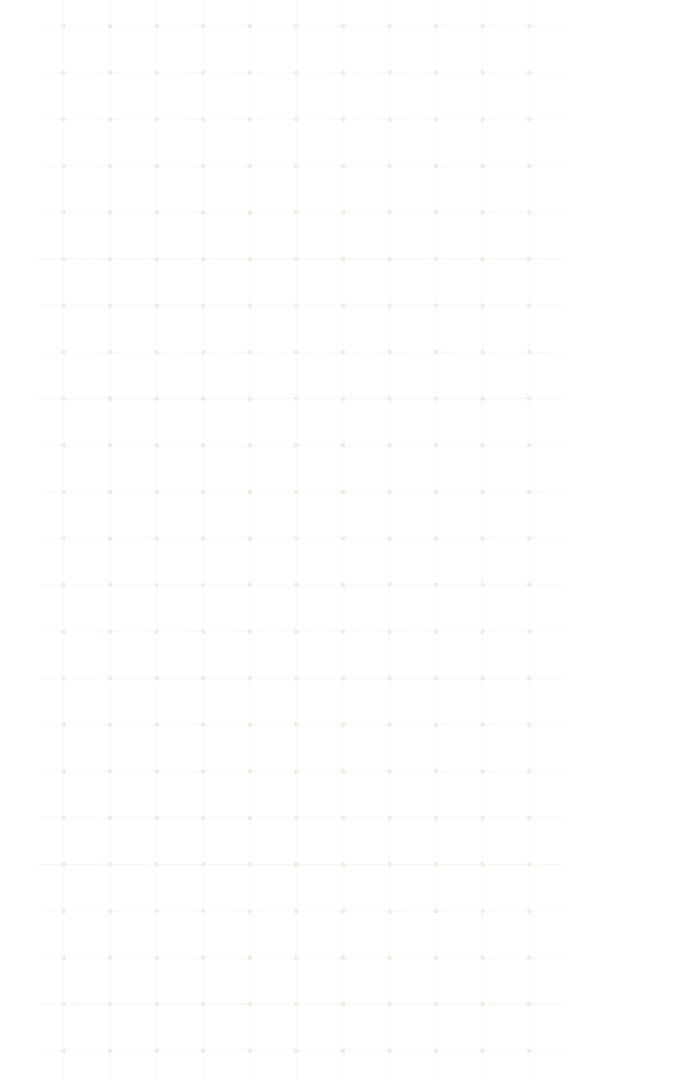
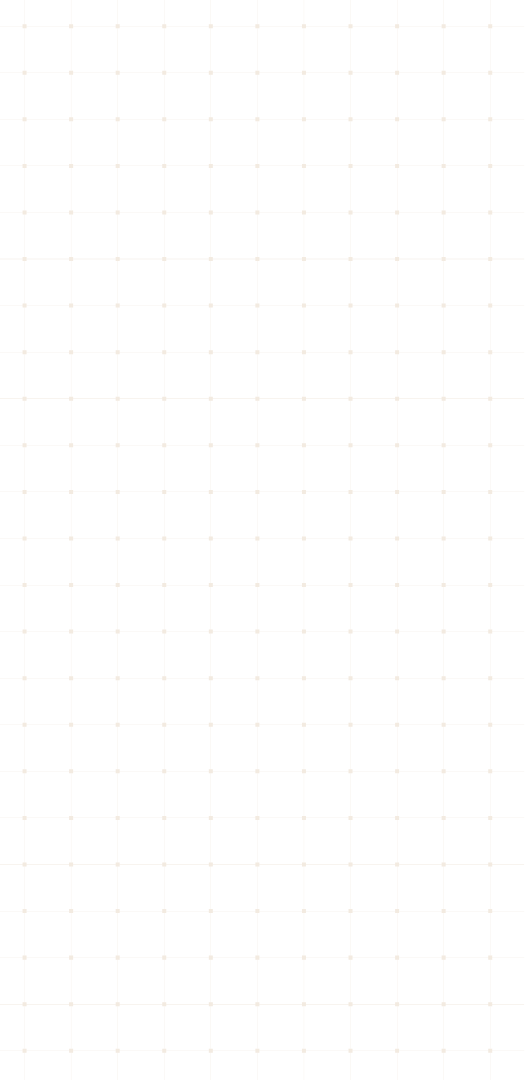
fix: crop grid background image and change scroll to downward

diff --git a/src/styles.css b/src/styles.css
@@ -36,13 +36,13 @@ html, body {
 body {
   background-image: url('./assets/grid-bg.png');
   background-repeat: repeat;
-  background-size: 300px auto;
+  background-size: 525px auto;
   animation: bgScroll 60s linear infinite;
 }
 
 @keyframes bgScroll {
   0% { background-position: 0 0; }
-  100% { background-position: 300px 300px; }
+  100% { background-position: 0 1080px; }
 }
 
 /* ===== Screen Management ===== */
